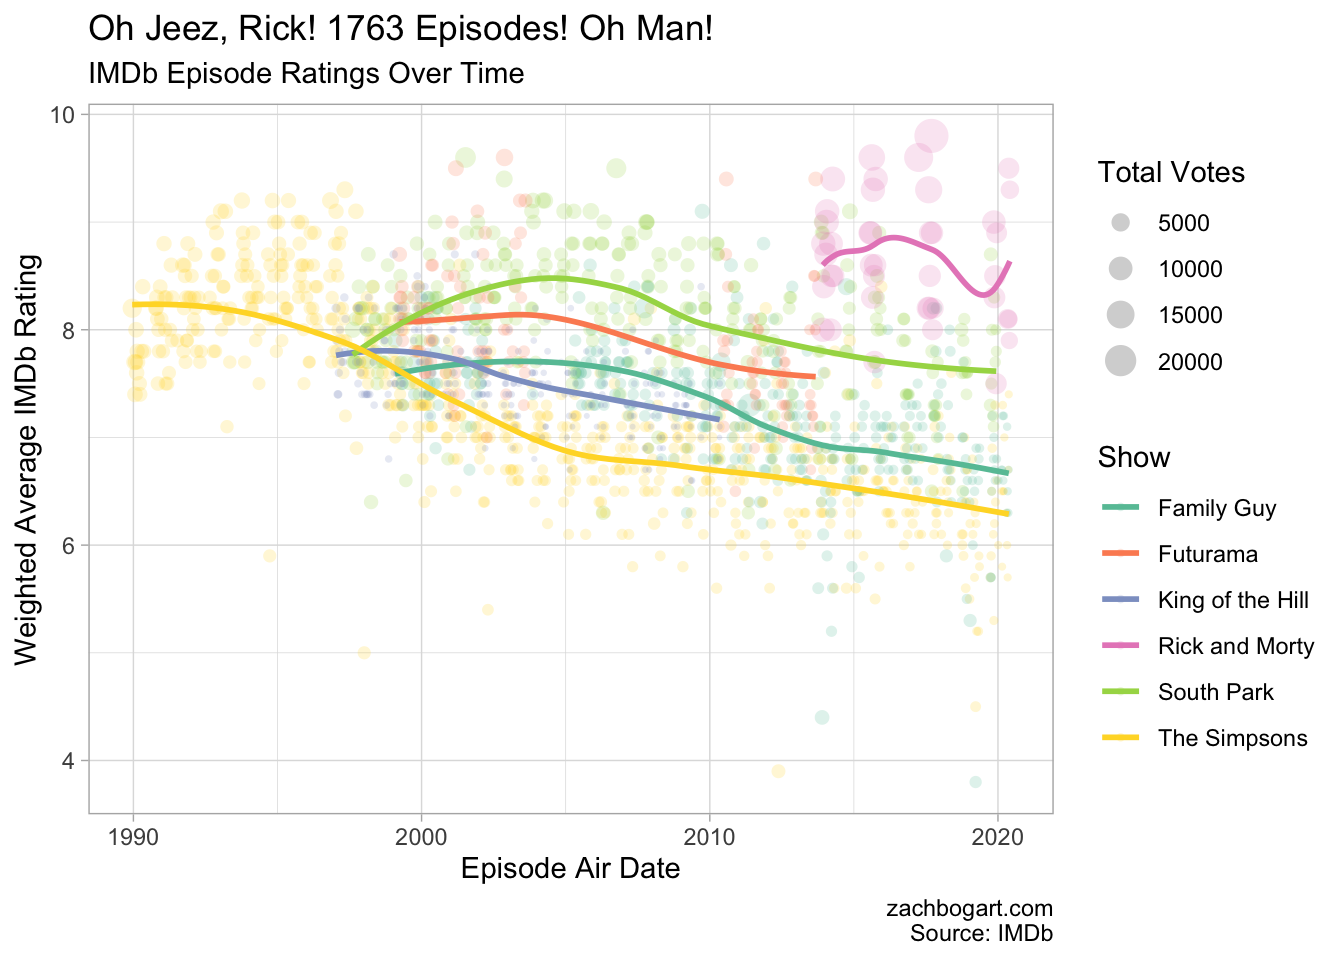
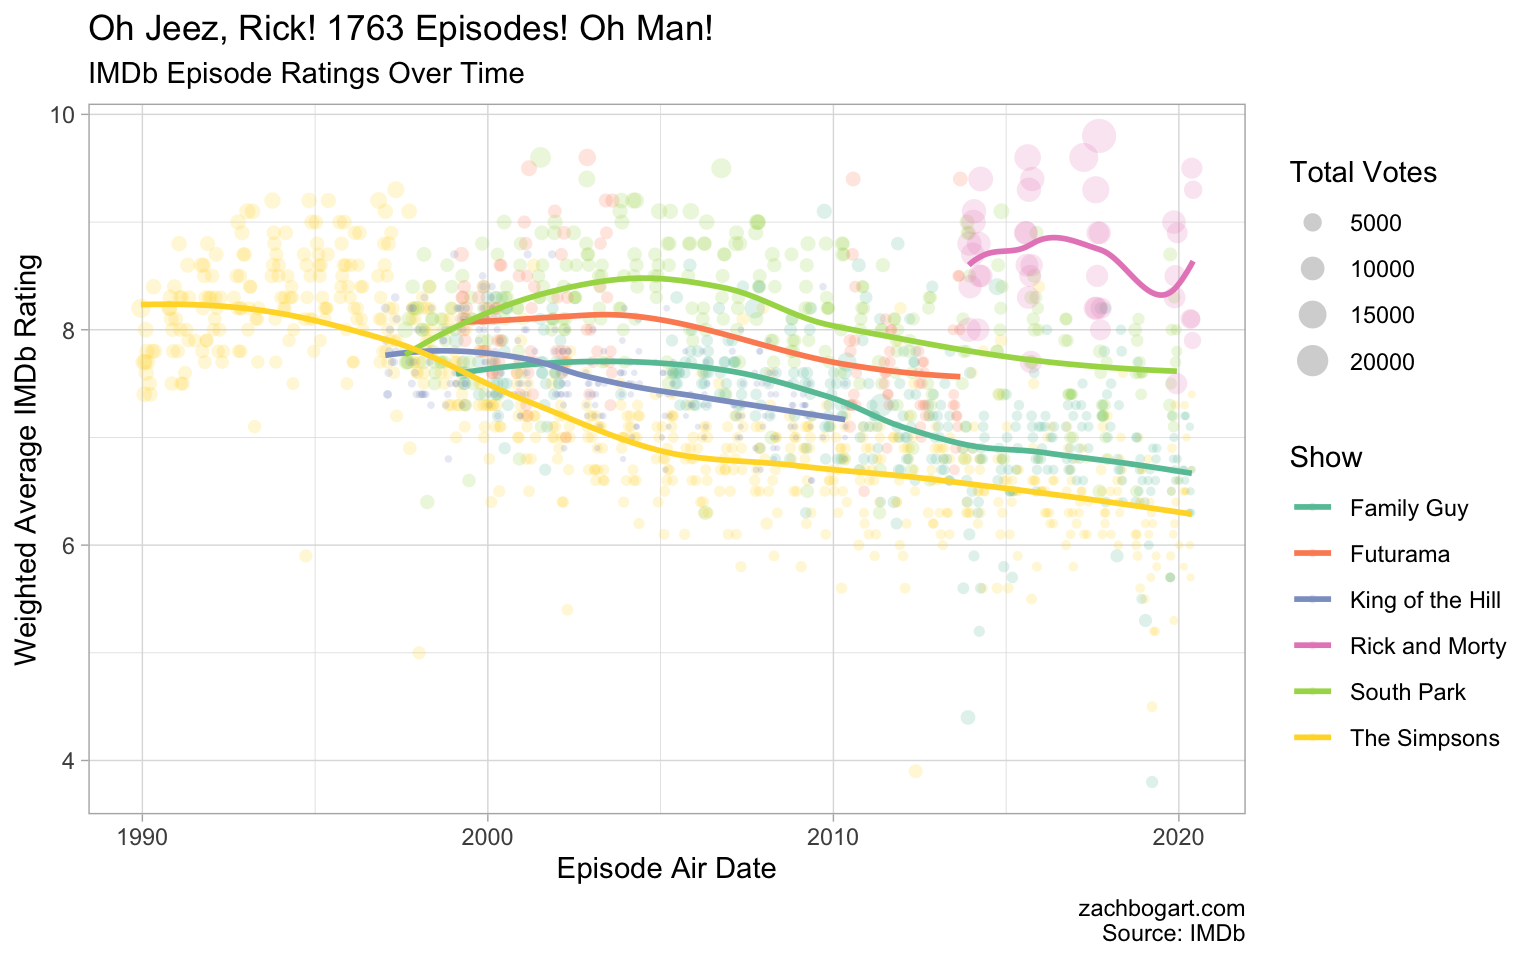
finish drafting

diff --git a/content/post/2020-08-28-simpsons/index.html b/content/post/2020-08-28-simpsons/index.html
@@ -23,12 +23,12 @@ draft: true
 
 
 
-<p>In <a href="TODO">an earlier post</a>, I used rvest to scrape IMDB episode ratings data about <em>The Magicians</em>. Under the section “Advanced Spellcasting”, I made a function that could scrape <em>any</em> show, and I gave an example grabbing some data about <em>The Simpsons</em>. It worked so well last time, let’s keep on using it! Let’s try grabbing a couple shows and see what we can make.</p>
-<p>Time to watch cartoons…</p>
-<p>TODO GIF</p>
+<p>In <a href="https://zachbogart.com/post/rvest-wizardry/">an earlier post</a>, I used rvest to scrape IMDb episode ratings about <em>The Magicians</em>. Under the section “Advanced Spellcasting”, I made a function that could scrape <em>any</em> show, and I gave an example grabbing some data about <em>The Simpsons</em>. It worked so well last time, let’s keep on using it! Let’s try grabbing some more animated shows and see what we can make.</p>
+<p>Take a seat. It’s time to watch cartoons…</p>
+<p><img src="https://media.giphy.com/media/RwLDkna2fN3fG/giphy.gif" /></p>
 <div id="we-came-in" class="section level2">
 <h2>…We Came In?</h2>
-<p>We are going to start where we ended, using the same <code>grab_imdb_ratings()</code> function from <a href="TODO">the earlier post</a> (with a small tweak).</p>
+<p>We are going to start where we ended, using the same <code>grab_imdb_ratings()</code> function from <a href="https://zachbogart.com/post/rvest-wizardry/">the earlier post</a> (with a small tweak).</p>
 <pre class="r"><code>library(tidyverse) # cause duh
 library(rvest) # for web scraping
 library(glue) # for that warm and fuzzy fstring feeling (python-like)
@@ -94,7 +94,7 @@ theme_set(theme_light())</code></pre>
 </div>
 <div id="watch-cartoons" class="section level2">
 <h2>Watch Cartoons</h2>
-<p>Here we go and grab all of the data for a bunch of different cartoons. Focusing on popular/long-running animated comedies in primetime (I guess).</p>
+<p>Here we grab all of the data for a bunch of different cartoons. Focusing on popular and/or long-running animated comedies in primetime (I guess).</p>
 <pre class="r"><code># collect cartoon shows
 simpsons &lt;- grab_imdb_ratings(&quot;tt0096697&quot;, c(1:31)) 
 family_guy &lt;- grab_imdb_ratings(&quot;tt0182576&quot;, c(1:18)) 
@@ -113,8 +113,8 @@ shows &lt;- bind_rows(simpsons,
 </div>
 <div id="in-hell-they-make-you-watch-them-all-in-a-row" class="section level2">
 <h2>In Hell They Make You Watch Them All in a Row</h2>
-<p>TODO</p>
-<pre class="r"><code># Ratings Over Time
+<p>Let’s look at the ratings over time, as the episodes aired.</p>
+<pre class="r numberLines"><code># Ratings Over Time
 plot_title &lt;-  glue(&quot;Oh Jeez, Rick! {dim(shows)[1]} Episodes! Oh Man!&quot;)
 plot_subtitle &lt;- &quot;IMDb Episode Ratings Over Time&quot;
 
@@ -130,11 +130,30 @@ shows %&gt;%
          caption = &quot;zachbogart.com\nSource: IMDb&quot;,
          size = &quot;Total Votes&quot;,
          color = &quot;Show&quot;)</code></pre>
-<p><img src="/post/2020-08-28-simpsons/index_files/figure-html/unnamed-chunk-4-1.png" width="672" /></p>
+<p><img src="/post/2020-08-28-simpsons/index_files/figure-html/unnamed-chunk-4-1.png" width="768" /></p>
+<p>The plot shows one dot for each episode, placed according to the date it was aired and it’s weighted average IMDB rating (<a href="https://help.imdb.com/article/imdb/track-movies-tv/weighted-average-ratings/GWT2DSBYVT2F25SK?ref_=cons_tt_rt_wtavg#">explained, sort of</a>). The size of each dot is mapped to how many users voted to create the IMDb rating. Finally, some <code>geom_smooth()</code> lines to see the overall trend for each show.</p>
+<p><em>The Simpsons</em> started in the 1990’s (just kissed 1989 with their inaugural Christmas special) and set the stage for the other shows that followed. There first decade has proven to have been the highest rated (as is the case with the other long-running shows pictured). Over time, they have had a slight, but steady decrease, yet they are still quite highly-rated after three decades on the air.</p>
+<p>Other shows followed in the late 90’s/early aughts. They all start at similar levels to the yellow juggernaut, but some shows have been able to keep a higher rating for a longer stretch. <em>South Park</em> for example, has kept a higher average rating than <em>The Simpsons</em> in the early years, and they’re also comfortably above other shows that started around a similar time.</p>
+<p>Finally, <em>Rick and Morty</em>, though much newer than the others, has had a very high approval rating across its run. It is also interesting that, of all the shows, it has the most user votes for each episode (bigger dots) by a big margin, with close to ten thousand reviews per episode.</p>
+<pre class="r"><code># look at average episode votes for each show
+shows %&gt;% 
+  count(show, 
+        wt = mean(votes), 
+        sort = TRUE,
+        name = &quot;avg_votes_per_episode&quot;)</code></pre>
+<pre><code>## # A tibble: 6 x 2
+##   show             avg_votes_per_episode
+##   &lt;chr&gt;                            &lt;dbl&gt;
+## 1 Rick and Morty                   9556.
+## 2 South Park                       2047.
+## 3 Futurama                         1491.
+## 4 The Simpsons                     1344.
+## 5 Family Guy                       1145.
+## 6 King of the Hill                  199.</code></pre>
 </div>
 <div id="the-terrifying-lows.-the-dizzying-highs.-the-creamy-middles." class="section level2">
 <h2>The Terrifying Lows. The Dizzying Highs. The Creamy Middles.</h2>
-<p>TODO</p>
+<p>Now let’s look at the distribution of each show’s ratings. To spice up the plot, let’s include the names of the episodes that earn the highest and lowest rating for each show. I made them as separate tibbles and added them as <code>geom_text()</code> layers.</p>
 <pre class="r"><code># get highest/lowest rated episodes, breaking ties
 best_rated &lt;- shows %&gt;% 
   group_by(show) %&gt;% 
@@ -143,6 +162,7 @@ best_rated &lt;- shows %&gt;%
 worst_rated &lt;- shows %&gt;% 
   group_by(show) %&gt;% 
   slice_min(rating, with_ties = FALSE)</code></pre>
+<p>Here’s a look at each show’s collection of episodes as a boxplot.</p>
 <pre class="r"><code># horizontal boxplots
 plot_title &lt;-  &quot;Atlantis, Baby!&quot;
 plot_subtitle &lt;- &quot;IMDb Episode Ratings with Highest/Lowest-Rated Episode Titles&quot;
@@ -171,19 +191,33 @@ shows %&gt;%
          subtitle = plot_subtitle,
          caption = &quot;zachbogart.com\nSource: IMDb&quot;) +
     coord_flip()</code></pre>
-<p><img src="/post/2020-08-28-simpsons/index_files/figure-html/unnamed-chunk-6-1.png" width="672" /></p>
+<p><img src="/post/2020-08-28-simpsons/index_files/figure-html/unnamed-chunk-7-1.png" width="768" /></p>
+<p>Interesting to see how different shows span different rating ranges. Granted it has the smallest number of episodes (41), but <em>Rick and Morty</em> has a very narrow distribution of ratings, all clustered high up the scale. At the other extreme, <em>The Simpsons</em> has a ridiculous number of episodes (683), which span a much wider range. It is also noteworthy that while many shows have episodes averaging a six, <em>The Simpsons</em> and <em>Family Guy</em> are the only ones with episodes that dip below four. While corner cases, they both seem to have an episode that is quite disliked by viewers (or at least those willing to say something on IMDb). Do any of the best/worst episodes ring a bell? Do you agree with IMDb?</p>
+</div>
+<div id="isnt-this-where" class="section level2">
+<h2>Isn’t This Where…</h2>
+<p>Kinda feel like I’m repeating myself, but this was such a breeze to setup/joy to play with since <a href="https://zachbogart.com/post/rvest-wizardry/">the earlier post</a> did the heavy-lifting (yes, future-me is thankful). Maybe I’ll grab some more shows in the future. I’m sure there is a lot to dig up and since things are all in place, it should be easy to ask questions about multiple shows together. Should make for some good viewing.</p>
+<div id="getting-more-complicated" class="section level3">
+<h3>Getting More Complicated</h3>
+<ul>
+<li>Could look into getting the <em>actual reviews</em> people leave about episodes or shows. Getting my feet wet with sentiment analysis would be worth doing.</li>
+<li>I think I’m not done with <em>The Simpsons</em> just yet. Would be interesting to see that show’s long run split up a bit, maybe tell some more specific stories (season-by-season, Treehouse of Horror, etc.)</li>
+</ul>
+<p>Alright. Till next time!</p>
+<p><img src="https://media.giphy.com/media/jUwpNzg9IcyrK/giphy.gif" /></p>
+<p>&lt;vsauce_voice&gt;And as always…thanks for watching.&lt;/vsauce_voice&gt;</p>
+</div>
 </div>
 <div id="learning" class="section level2">
 <h2>Learning</h2>
 <ul>
-<li>Color was an accident. Would want to get better at manually binding palette colors to a given part of the data</li>
+<li>Color was an accident in terms of getting <em>The Simpsons</em> to be yellow. Would want to get better at manually binding palette colors to a given part of the data.</li>
+<li>Factoring out styling variables proved useful when I was deciding between displaying a horizontal versus vertical boxplot. Allowed for easy tweaking across multiple plots.</li>
+<li>Would be nice to allow for links to headers in a post in <code>blogdown</code>. I found some things <a href="https://ericbryantphd.com/2020/01/13/add-section-links-in-blogdown/">online</a>, but I’ll have to look it over more thoroughly.</li>
+<li>Another <code>blogdown</code> question: how to get twitter URLs to render as cards with an image. With <a href="https://cards-dev.twitter.com/validator">Twitter’s Card Validator</a>, it doesn’t seem to include an image. Wondering how I add one without getting too much into the HUGO weeds.</li>
 </ul>
 <div id="image-credit" class="section level4">
 <h4>Image Credit</h4>
-<p>TODO</p>
+<p><a href="https://thenounproject.com/zachbogart/collection/strolling-through-ikea/?i=3169372">large sofa</a> by Zach Bogart from <a href="https://thenounproject.com/">the Noun Project</a></p>
 </div>
-</div>
-<div id="isnt-this-where" class="section level2">
-<h2>Isn’t This Where…</h2>
-<p>TODO</p>
 </div>
